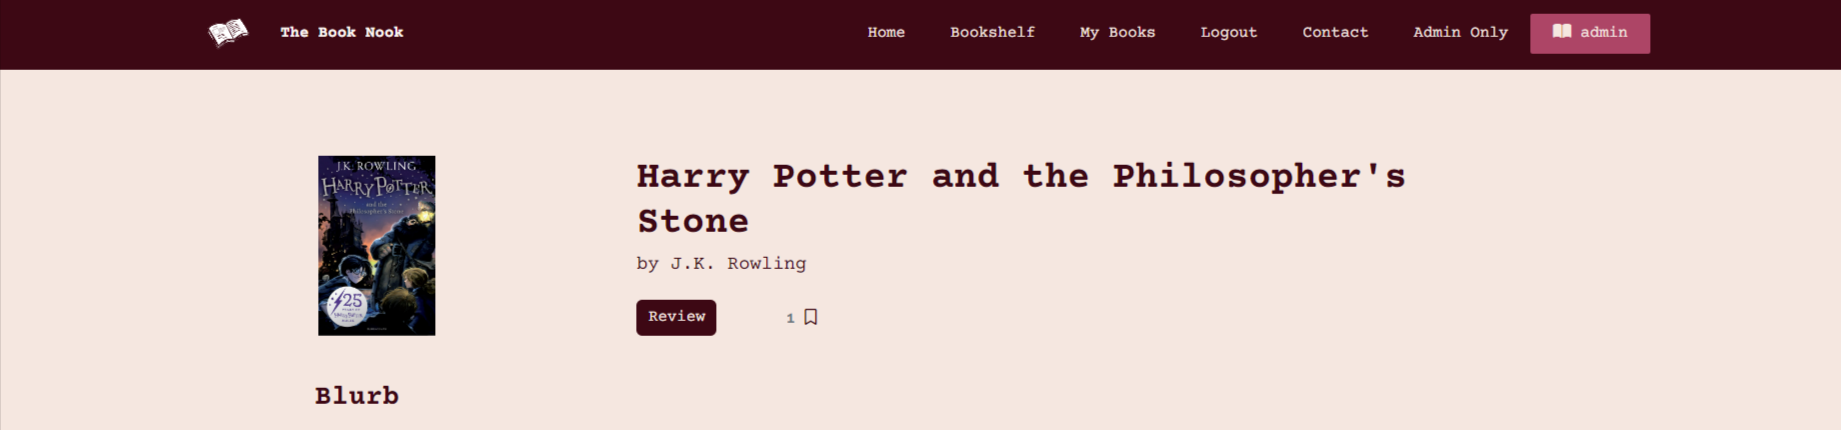
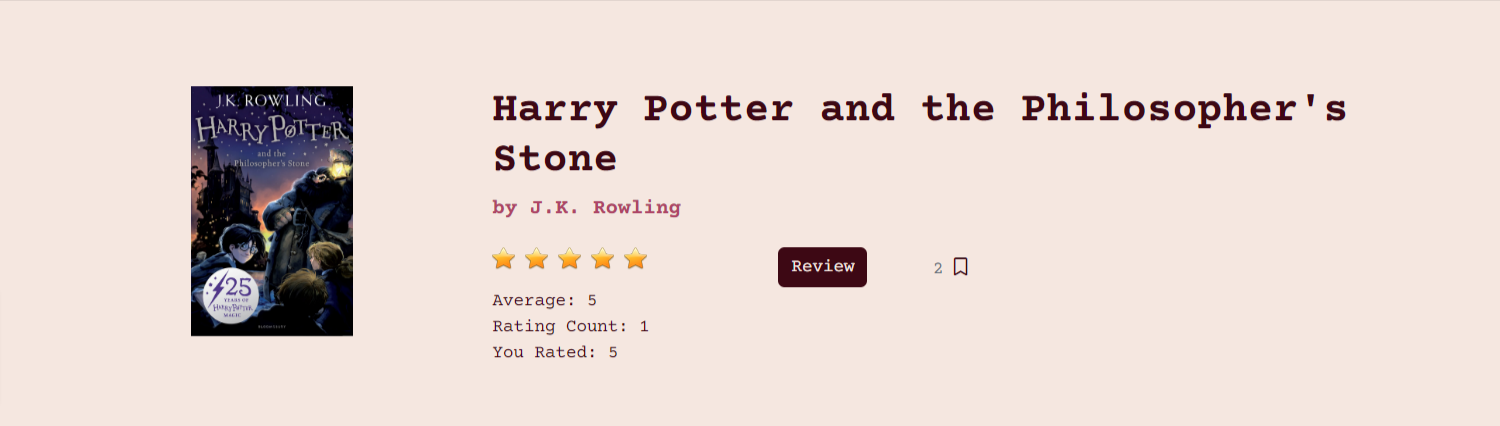
Update screenshots to reflect addition of star ratings

diff --git a/README.md b/README.md
@@ -443,10 +443,17 @@ Each page, except the Home Page, has a clear heading when landing on the page. T
 * A package called [django-star-rating](https://django-star-ratings.readthedocs.io/en/latest/?badge=latest/#) was installed to track the rating users gave to objects (Books) and provide graphics to represent this.
 * The star rating appears on book listings on the Genre, Bookshelf and My Books and Book pages.
 * If the user is not logged the user cannot rate a book and is asked to log in to rate it
+
+![ Star Rating not logged in book listing](docs/images/star-rating-listing-not-logged-in.png)
+![ Star Rating not logged in book ](docs/images/star-rating-book-not-logged-in.png)
+
 * If the user is logged in, they can click the stars and rate the book
 * It provides a total average rating in visuals for the individual listing
 * It provides your own rating that you can the individual listing
 * It provides the count of how many people have rated the individual listing
+
+![ Star Rating book listing](docs/images/star-rating-book-listing.png)
+![ Star Rating ](docs/images/star-rating-book-page.png)
 
 ## 404 Page
 
